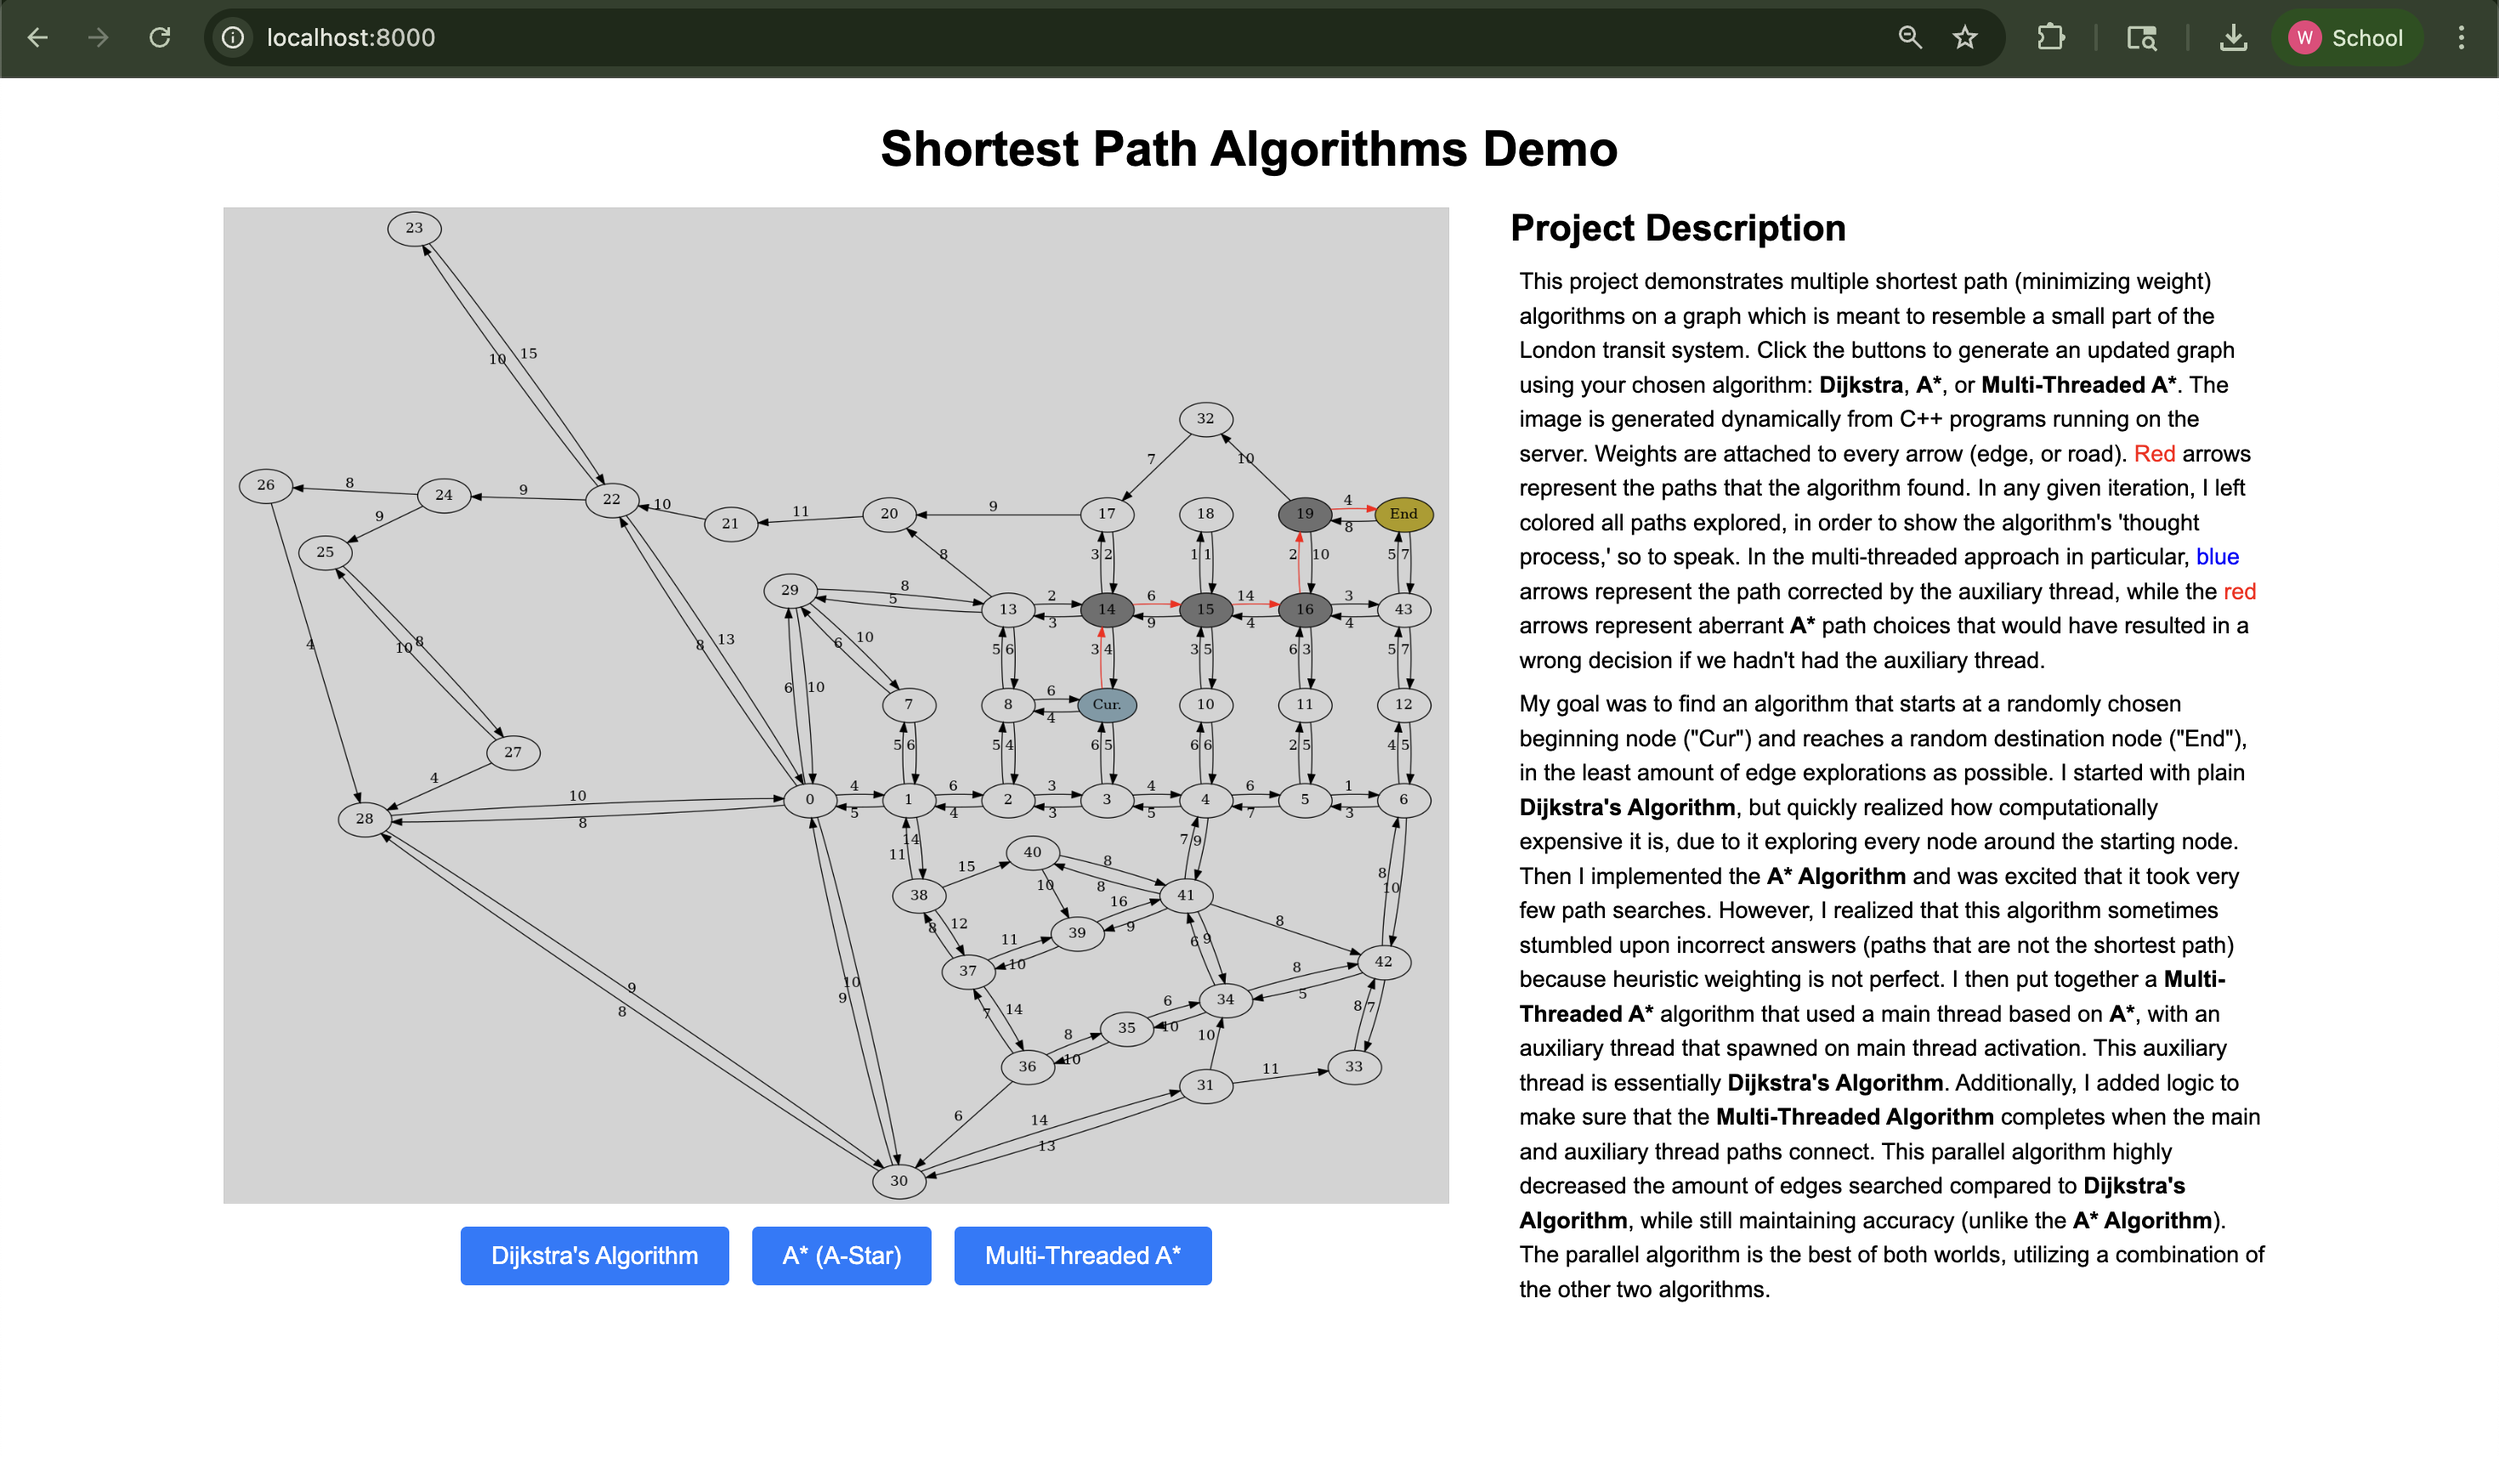
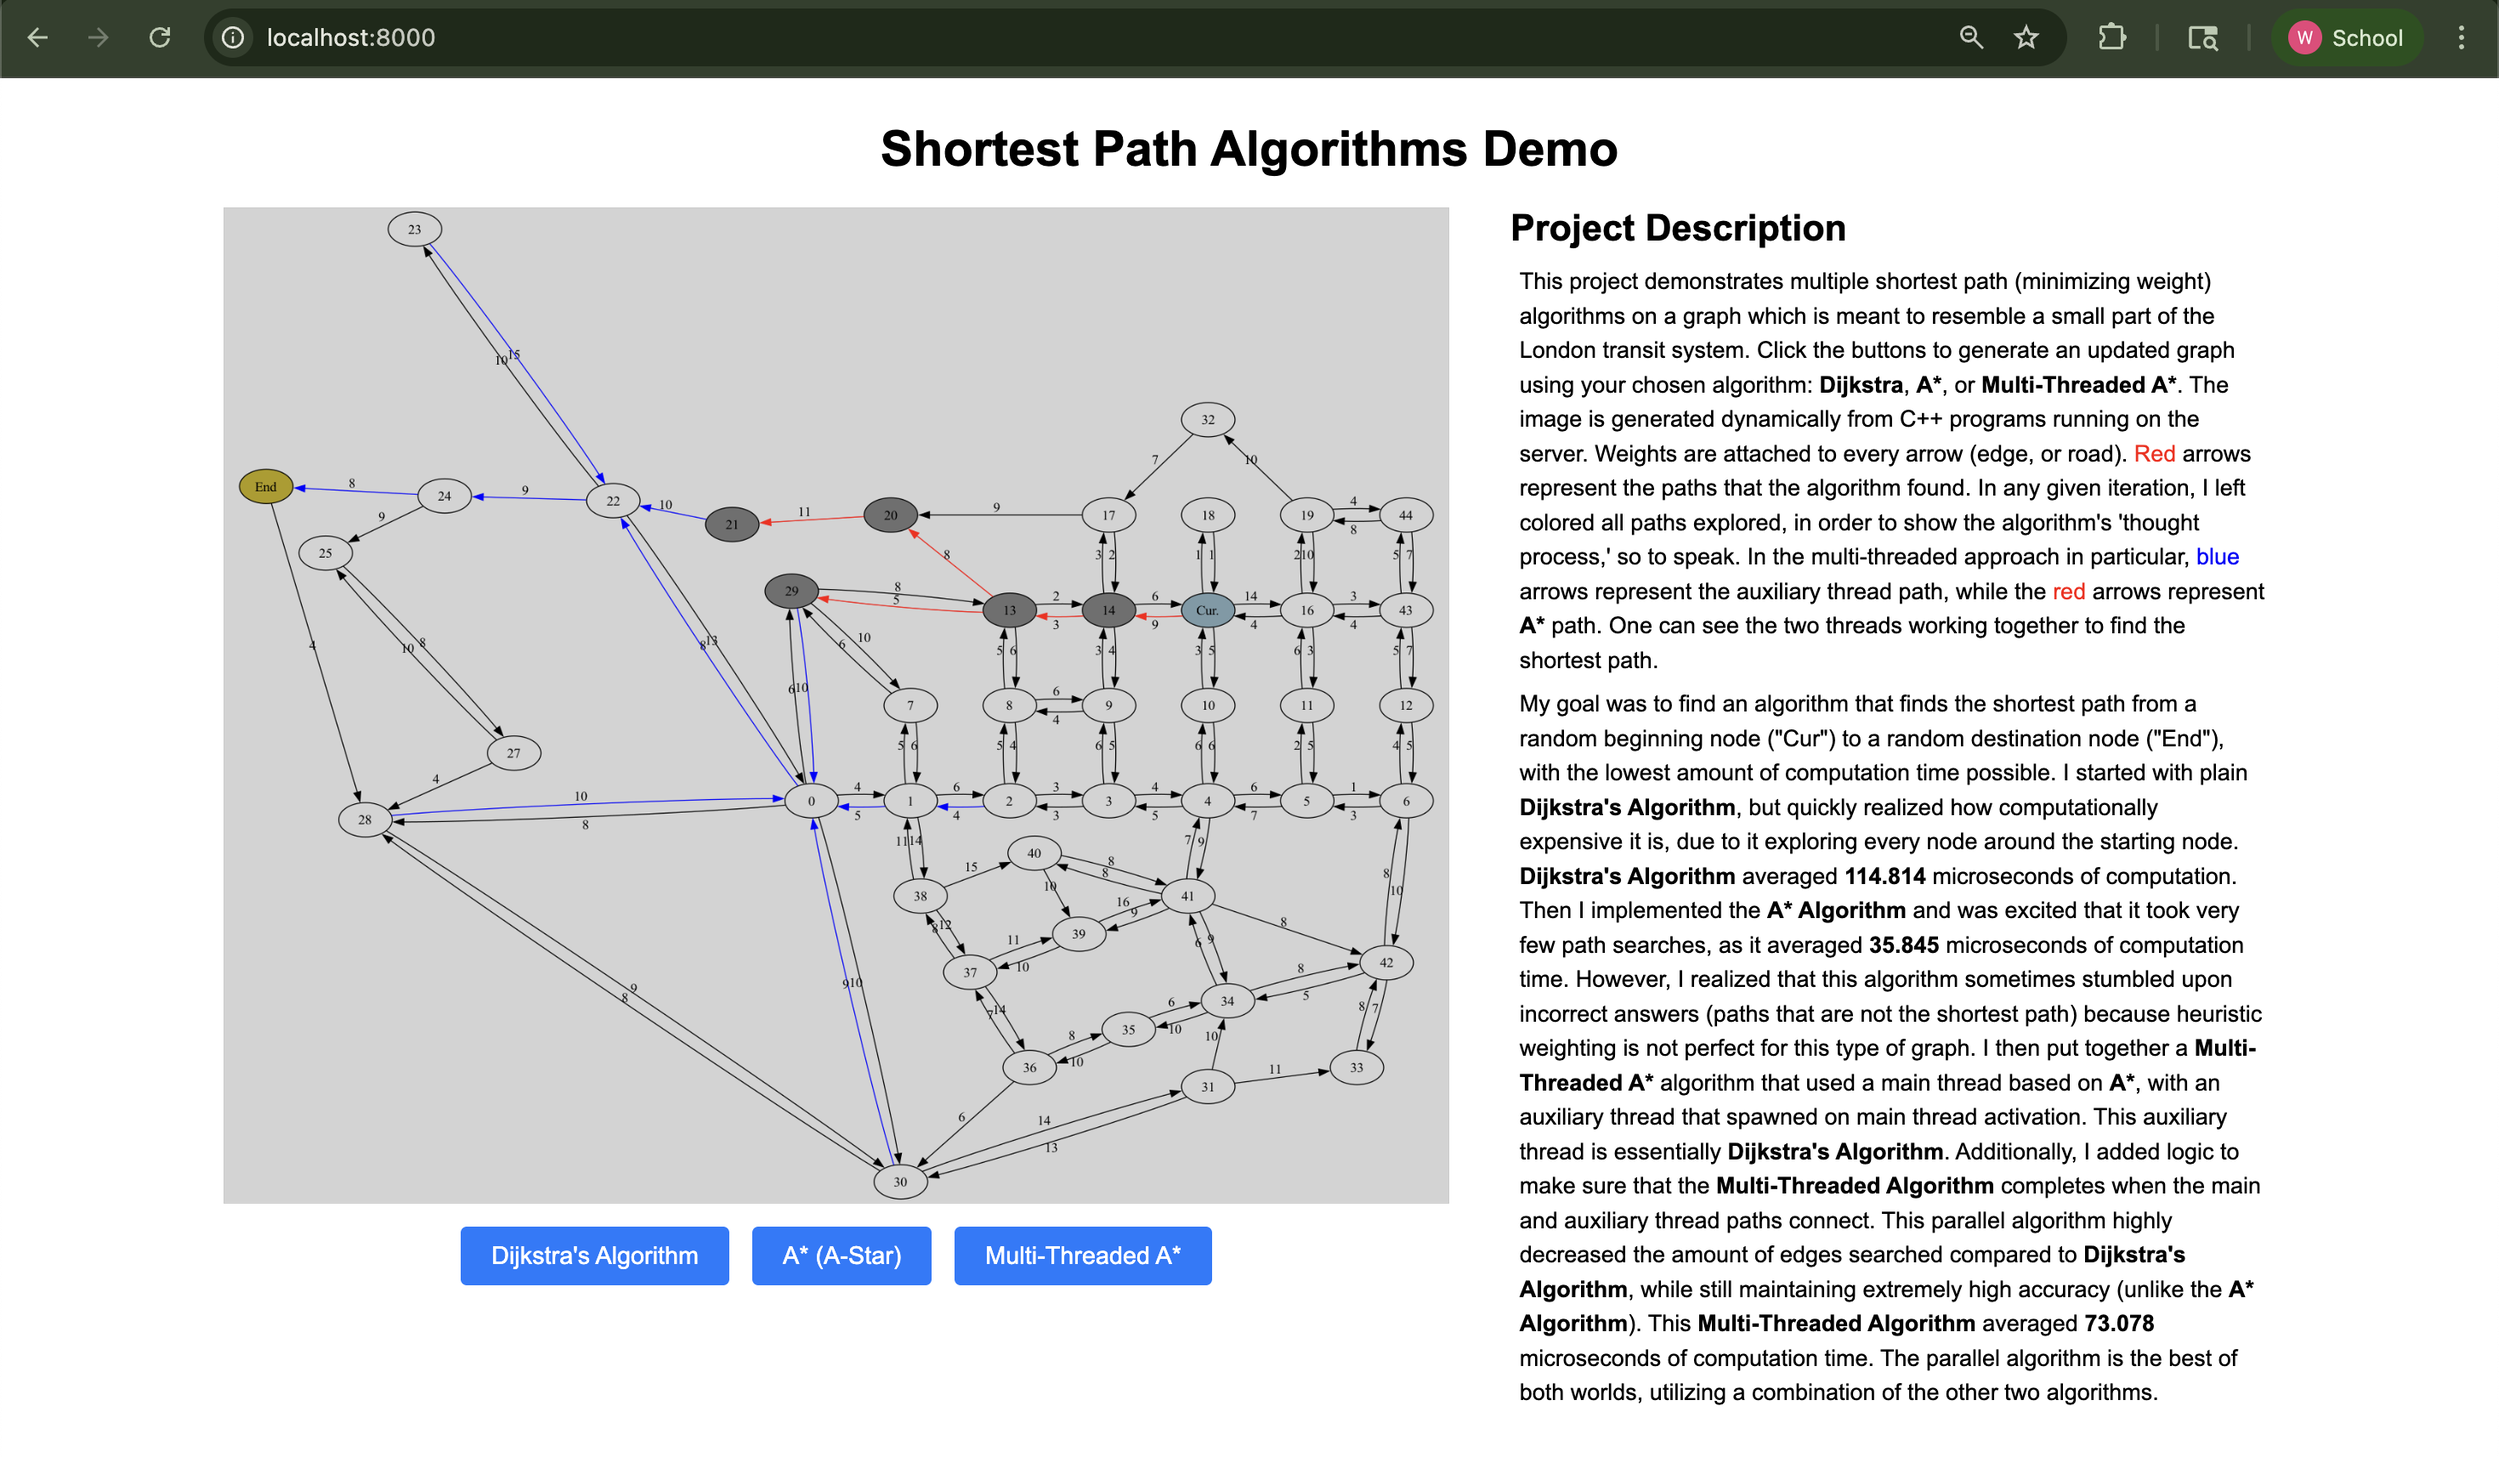
Cleanup files

diff --git a/static/test.html b/static/test.html
@@ -131,7 +131,7 @@
                 The image is generated dynamically from C++ programs running on the server. Weights are attached to every arrow (edge, or road).
                 <red>Red</red> arrows represent the paths that the algorithm found. In any given iteration, I left colored all paths explored, in order to show the 
                 algorithm's 'thought process,' so to speak. In the multi-threaded approach in particular, <blu>blue</blu> arrows represent 
-                the auxiliary thread path, while the <red>red</red> arrows represent <strong>A*</strong> path. One can see the two threads working together to find the shortest path.
+                the auxiliary thread path, while the <red>red</red> arrows represent <strong>A*</strong> path. One can see the two threads working together to find the shortest path. 
             </p>
             <p style="font-size: 15px;">
                 My goal was to find an algorithm that finds the shortest path from a random beginning node ("Cur") to a random destination node ("End"), with the lowest amount of computation time possible. 

diff --git a/src/graph/Graph.cpp b/src/graph/Graph.cpp
@@ -115,10 +115,10 @@ void Graph::show_solution(int begin, int end, int iteration) {
         v1 = edge.get_source(); v2 = edge.get_destination();
         v1_label = std::to_string(v1.val), v2_label = std::to_string(v2.val);
         if (v1.val == begin) v1_label = "Cur.";   if (v2.val == begin) v2_label = "Cur.";
-        else if (v1.val == end) v1_label = "End";  else if (v2.val == end) v2_label = "End";
+        if (v1.val == end) v1_label = "End";  else if (v2.val == end) v2_label = "End";
         color = "black";
         if (is_solution_edge(edge)) { color = "red"; }
-        else if (is_thread_solution_edge(edge)) { color = "blue"; }
+        if (is_thread_solution_edge(edge)) { color = "blue"; }
         v1_shade_str = "", v2_shade_str ="";
         if (v1.val != begin and v1.val != end and color == "red" )  { v1_shade_str = "fillcolor=\"#6f6f6fff\""; }
         if (v2.val != begin and v2.val != end and color == "red")  { v2_shade_str = "fillcolor=\"#6f6f6fff\""; }
@@ -258,7 +258,7 @@ signed long Graph::potential(Vertex start, Vertex end) {
 
 void Graph::heuristic_reweight(Edge& edge, Vertex leading_vertex, Vertex end) {
     int heuristic = potential(leading_vertex, end);
-    edge.set_weight(edge.get_weight() + 0.1*heuristic); // To tone down the heuristic reweighting: alpha = 0.1 
+    edge.set_weight(edge.get_weight() + heuristic);
 }
 
 void Graph::reweight(Edge& edge, Vertex leading_vertex, Vertex end) {
@@ -438,8 +438,6 @@ void Graph::Parallel_A_Star(Vertex start, Vertex end) {
     std::vector<Vertex> pivot_vertices = {start};
     std::vector<Vertex> thread_pivot_vertices = {end};
 
-    int connections = 0;
-
     double min_thread_dist = inf;
 
 
@@ -477,8 +475,6 @@ void Graph::Parallel_A_Star(Vertex start, Vertex end) {
             thread_solution_edges.push_back(best);
 
             if (visited[best.get_source().val].load() == 1) { 
-            //     connections++;
-            //    if (connections > adj.size() / 20) return;
                 return;
             }
 
@@ -529,25 +525,7 @@ void Graph::Parallel_A_Star(Vertex start, Vertex end) {
         prev[best.get_destination().val] = best.get_source().val;
 
         if (visited[best.get_destination().val].load() == 2) { // If vertex is found
-            t1.join();
-            // for (auto e : solution_edges) {
-            //     if (visited[e.get_destination().val].load() == 2) {
-            //         Edge temp_edge = Edge(e.get_source(), e.get_destination(), dist[e.get_source().val] + thread_dist[e.get_destination().val]); //e.get_weight() + thread_dist[e.get_destination().val]);
-            //         final_pq.push(temp_edge);
-            //     }
-            // }
-
-            // Edge connector_edge = final_pq.top(); final_pq.pop();
-            // Append prev 
-            // for (int at = connector_edge.get_source().val; at != start.val && at != -1; at = prev[at]) {
-            //     path_edges.push_back(find_edge(prev[at], at));
-            // }
-            // std::reverse(path_edges.begin(), path_edges.end());
-            // path_edges.push_back(connector_edge);
-            // // Append forward
-            // for (int at = connector_edge.get_destination().val; at != end.val && at != -1; at = thread_forward[at].val) {
-            //     path_edges.push_back(find_edge(at, thread_forward[at].val));
-            // }
+            t1.join(); // Collect back thread t1
             return; // Then we have connected the two partitions
         }
 
